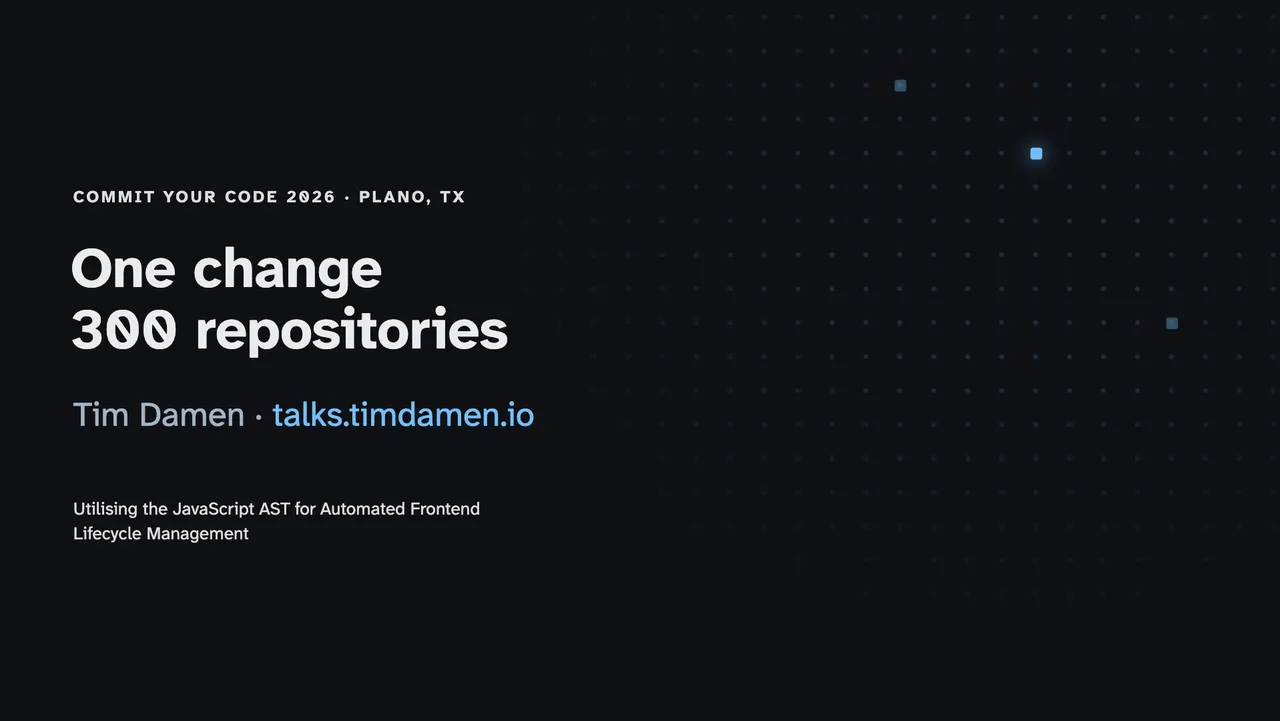
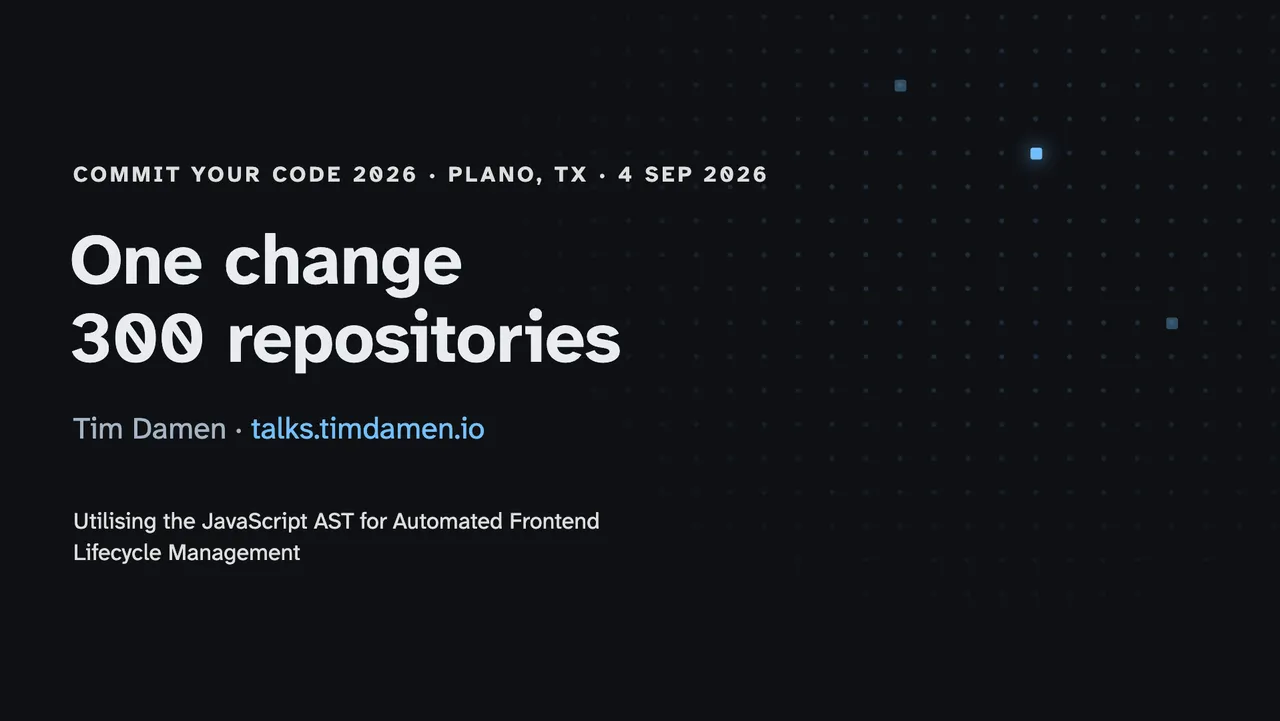
feat: event dates and larger cover text on the four latest decks
Adds the event date to the cover kicker of the ABN AMRO (15 Oct), Frontmania
(7 Oct), UtahJS (18 Sep) and Commit Your Code (4 Sep) decks, and bumps the
cover kicker, title and byline sizes. The title and byline rules now beat the
theme's .slidev-layout h1/p rules, which had been overriding them.

Changed region(s): [[0.0312, 0.2136, 0.5938, 0.5187], [0.0312, 0.7018, 0.4688, 0.7933], [0.0625, 0.5492, 0.4062, 0.6103]]

diff --git a/presentations/abnamro-dev-26-cant-see-pixels/style.css b/presentations/abnamro-dev-26-cant-see-pixels/style.css
@@ -58,11 +58,11 @@ button:has(> button.slidev-icon-btn) {
   color: var(--fm-muted);
   text-transform: uppercase;
   letter-spacing: 0.14em;
-  font-size: 0.8rem;
+  font-size: 1.05rem;
   font-weight: 700;
 }
-.cover-title {
-  font-size: 3.1rem;
+.slidev-layout h1.cover-title {
+  font-size: 3.8rem;
   line-height: 1.12;
   font-weight: 700;
 }
@@ -79,7 +79,7 @@ button:has(> button.slidev-icon-btn) {
   border-radius: 4px;
   padding: 0 0.15em;
 }
-.cover-byline { color: #e5e9f0; font-size: 1.05rem; }
+.slidev-layout p.cover-byline { color: #e5e9f0; font-size: 1.45rem; }
 .cover-url { color: var(--fm-ring); }
 
 /* ---- shared bits ---- */

diff --git a/presentations/frontmania-2026-cant-see-pixels/style.css b/presentations/frontmania-2026-cant-see-pixels/style.css
@@ -58,11 +58,11 @@ button:has(> button.slidev-icon-btn) {
   color: var(--fm-muted);
   text-transform: uppercase;
   letter-spacing: 0.14em;
-  font-size: 0.8rem;
+  font-size: 1.05rem;
   font-weight: 700;
 }
-.cover-title {
-  font-size: 3.1rem;
+.slidev-layout h1.cover-title {
+  font-size: 3.8rem;
   line-height: 1.12;
   font-weight: 700;
 }
@@ -79,7 +79,7 @@ button:has(> button.slidev-icon-btn) {
   border-radius: 4px;
   padding: 0 0.15em;
 }
-.cover-byline { color: #e5e9f0; font-size: 1.05rem; }
+.slidev-layout p.cover-byline { color: #e5e9f0; font-size: 1.45rem; }
 .cover-url { color: var(--fm-ring); }
 
 /* ---- shared bits ---- */

diff --git a/presentations/cyc-26-one-change/style.css b/presentations/cyc-26-one-change/style.css
@@ -98,20 +98,20 @@ code { color: var(--yellow); }
   color: var(--dim);
   text-transform: uppercase;
   letter-spacing: 0.14em;
-  font-size: 0.8rem;
+  font-size: 1.05rem;
   font-weight: 700;
 }
 .slidev-layout .cover-title {
-  font-size: 2.7rem;
+  font-size: 3.4rem;
   line-height: 1.1;
   font-weight: 700;
 }
-.cover-byline { font-size: 1.05rem; }
+.slidev-layout p.cover-byline { font-size: 1.45rem; }
 .cover-url { color: var(--blue); }
 .slidev-layout .cover-programme {
   margin-top: 0.9rem;
   color: var(--dim);
-  font-size: 0.85rem;
+  font-size: 1.1rem;
   max-width: 40ch;
   line-height: 1.4;
 }

diff --git a/presentations/utahjs-26-your-biggest-new-customer-cant-see-pixels/slides.md b/presentations/utahjs-26-your-biggest-new-customer-cant-see-pixels/slides.md
@@ -33,7 +33,7 @@ drawings:
 </div>
 
 <div class="cover-wrap cover-center">
-  <p class="cover-kicker">UtahJS 2026</p>
+  <p class="cover-kicker">UtahJS 2026 · 18 Sep 2026</p>
   <h1 class="cover-title">Your biggest new customer<br><span class="ring-accent">can't see pixels</span></h1>
   <p class="cover-byline">Tim Damen · <span class="cover-url">talks.timdamen.io</span></p>
 </div>
@@ -46,6 +46,9 @@ drawings:
   position: relative;
   z-index: 5;
 }
+.slidev-layout p.cover-kicker { font-size: 1.05rem; }
+.slidev-layout h1.cover-title { font-size: 3.8rem; }
+.slidev-layout p.cover-byline { font-size: 1.45rem; }
 
 .cover-glow {
   position: fixed;
@@ -89,7 +92,7 @@ drawings:
   animation: chip-float 7s ease-in-out infinite;
 }
 .chip-agent { top: 70px; right: 120px; }
-.chip-code { top: 238px; right: 236px; animation-delay: 2.6s; }
+.chip-code { top: 250px; right: 60px; animation-delay: 2.6s; }
 .chip-mono {
   font-family: ui-monospace, SFMono-Regular, Menlo, Consolas, monospace;
   font-size: 1.25rem;

diff --git a/presentations/abnamro-dev-26-cant-see-pixels/slides.md b/presentations/abnamro-dev-26-cant-see-pixels/slides.md
@@ -33,7 +33,7 @@ drawings:
 </div>
 
 <div class="cover-wrap cover-center">
-  <p class="cover-kicker">ABN AMRO Developer · The Goodbye Meetup</p>
+  <p class="cover-kicker">ABN AMRO Developer · The Goodbye Meetup · 15 Oct 2026</p>
   <h1 class="cover-title">Your biggest new customer<br><span class="ring-accent">can't see pixels</span></h1>
   <p class="cover-byline">Tim Damen · <span class="cover-url">talks.timdamen.io</span></p>
 </div>
@@ -89,7 +89,7 @@ drawings:
   animation: chip-float 7s ease-in-out infinite;
 }
 .chip-agent { top: 70px; right: 120px; }
-.chip-code { top: 238px; right: 236px; animation-delay: 2.6s; }
+.chip-code { top: 250px; right: 60px; animation-delay: 2.6s; }
 .chip-mono {
   font-family: ui-monospace, SFMono-Regular, Menlo, Consolas, monospace;
   font-size: 1.25rem;

diff --git a/presentations/cyc-26-one-change/slides.md b/presentations/cyc-26-one-change/slides.md
@@ -26,7 +26,7 @@ drawings:
 <div class="repo-echo repo-echo-2" aria-hidden="true"></div>
 
 <div class="cover-wrap cover-front">
-  <p class="cover-kicker">Commit Your Code 2026 · Plano, TX</p>
+  <p class="cover-kicker">Commit Your Code 2026 · Plano, TX · 4 Sep 2026</p>
   <h1 class="cover-title"><span>One change</span><br>300 repositories</h1>
   <p class="cover-byline">Tim Damen · <span class="cover-url">talks.timdamen.io</span></p>
   <p class="cover-programme">Utilising the JavaScript AST for Automated Frontend Lifecycle Management</p>

diff --git a/presentations/frontmania-2026-cant-see-pixels/slides.md b/presentations/frontmania-2026-cant-see-pixels/slides.md
@@ -20,7 +20,7 @@ drawings:
 ---
 
 <div class="cover-wrap">
-  <p class="cover-kicker">Frontmania 2026 · AI track</p>
+  <p class="cover-kicker">Frontmania 2026 · AI track · 7 Oct 2026</p>
   <h1 class="cover-title">Your biggest new customer<br><span class="ring-accent">can't see pixels</span></h1>
   <p class="cover-byline">Tim Damen · <span class="cover-url">talks.timdamen.io</span></p>
 </div>
